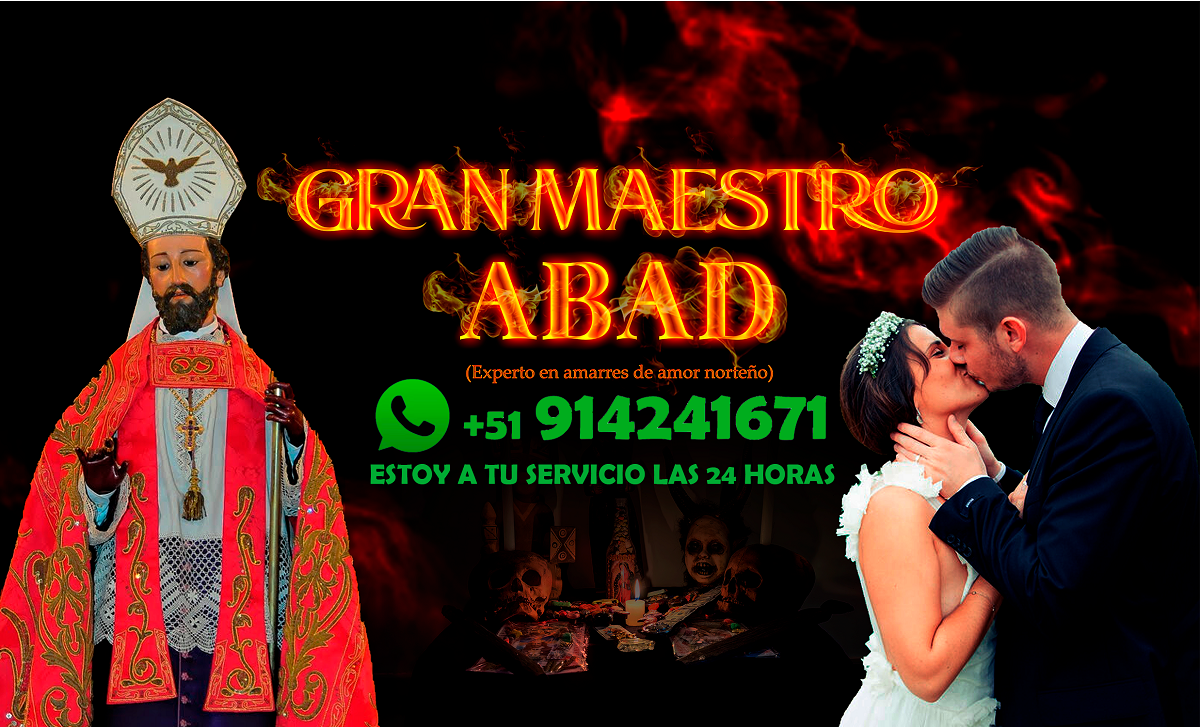
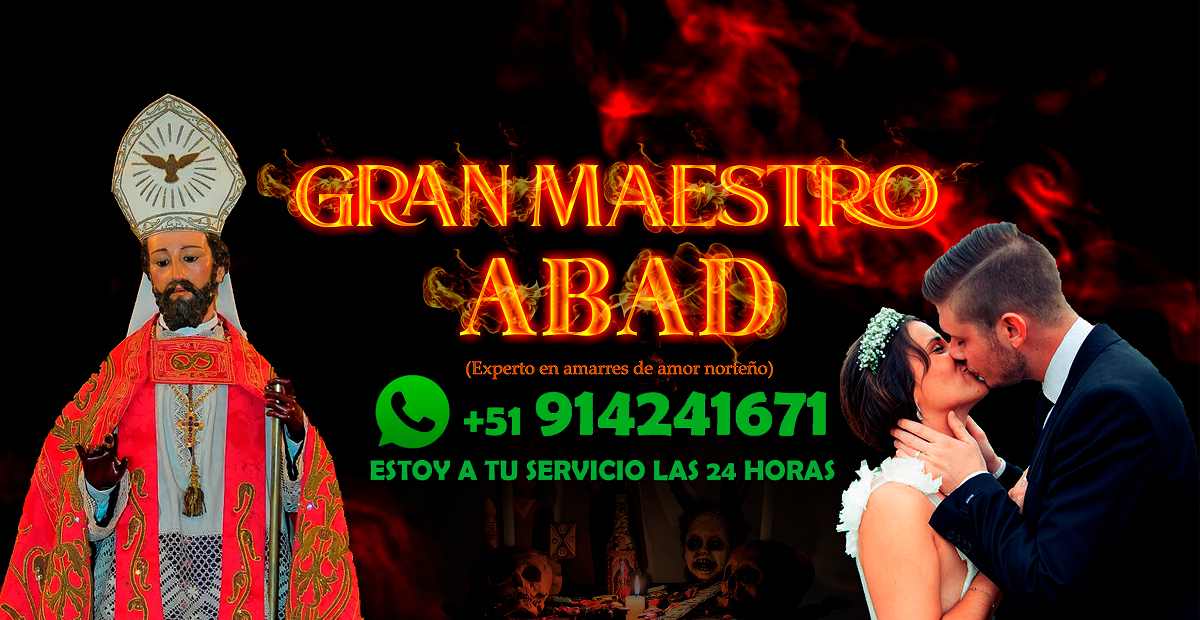
SE CREO LA PAGINA

diff --git a/index.html b/index.html
@@ -12,8 +12,11 @@
 <body>
     <!-- CABECERA  -->
     <div>
-        <div class="menu d-flex justify-content-around align-items-center">
-            <div><a href="#"><img src="img/logo.png" width='160px' alt=""></a></div>
+        <div class="menu  d-flex flex-column justify-content-around align-items-center">
+            <div class="text-center pt-1">
+                <a href="#"><img src="img/logo.png" width='180px' alt=""></a>
+                 <!-- <h2 style="background-color: blue;padding:20px">AMARRES EFECTIVOS</h2> -->
+            </div>
             
             <ul>
                 <li><a href="#">INICIO</a></li>
@@ -39,8 +42,8 @@
 
         </ul>
     </div>
-    <div class="cabecera" >
-        <img src="img/cabecera.png" alt="" width="100%">
+    <div class="text-center" >
+        <img src="img/cabecera.png" alt="" width="80%">
     </div>
    
     <!-- QUIEN SOY  -->

diff --git a/estilos.css b/estilos.css
@@ -4,18 +4,21 @@ body {
     background: black !important;;
 }
 .menu{
-    height: 50px;
-    background-color: #8d0000;
+    height: 170px;
+    background-image: radial-gradient(circle at 50.09% 50.02%, #9e54ff 0, #582def 25%, #2828bb 50%, #0831bf 75%, #0e2583 100%);
     z-index: 2;
-    position:fixed;
+    box-shadow: inset 4px -11px 15px 0px rgba(0, 0, 0, 0.8);
     top:0;
     width: 100%;
 }
 
 .menu ul {
+  width: 100%;
     display:flex;
     justify-content: center;
-    font-family: cursive;
+    font-size:20px;
+    background-color: rgba(6, 39, 88, 0.25);
+
     list-style-type: none;
     margin: 0;
     padding: 0;
@@ -36,9 +39,13 @@ body {
 }
 
 .menu li a:hover {
-    background-color: darkred;
+    /* background-color: darkred; */
 }
 
+.menu img{
+  border-radius: 50px;
+  box-shadow: -1px 6px 13px 4px #06030afa;
+}
 
 
 
